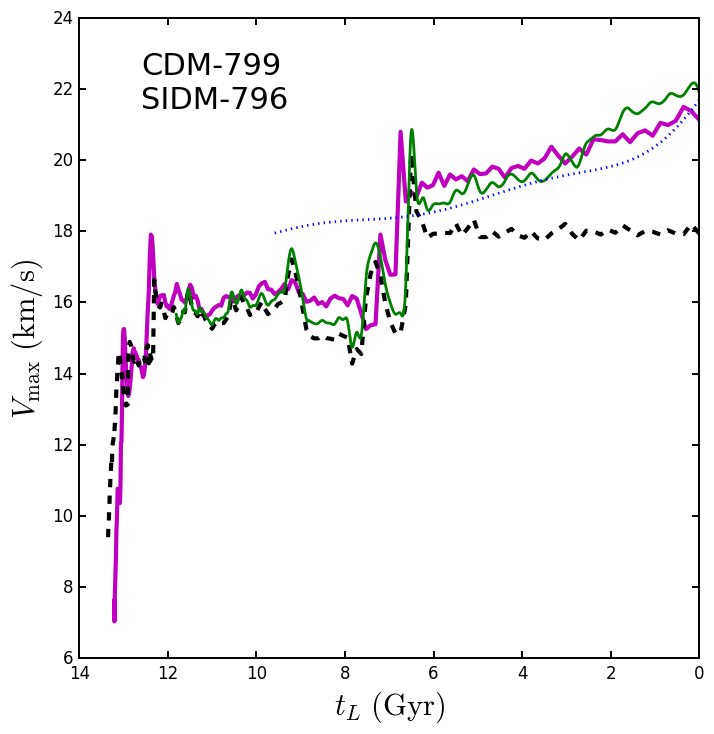
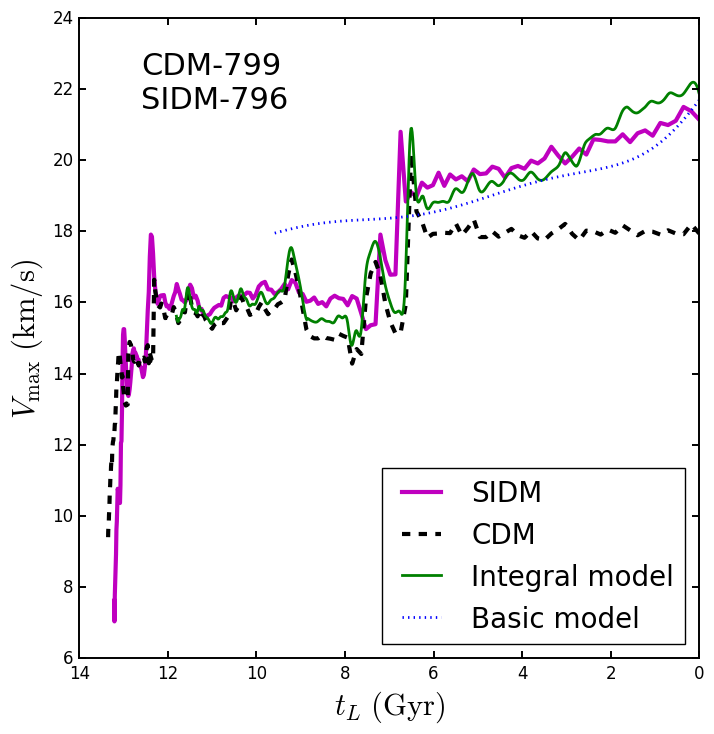
Update

diff --git a/getVRmaxplotISO.py b/getVRmaxplotISO.py
@@ -60,7 +60,7 @@ plt.ylabel(r"$V_{\rm max}\ \rm (km/s)$",fontsize=22)
 zf=-0.0064*pow(np.log10(data1['mvir'][0]/h),2)+0.0237*np.log10(data1['mvir'][0]/h)+1.8837
 tform=14-1.*tlb(zf)
 tform=0.5*tform
-tbins=np.linspace(0,14,10000)
+tbins=np.linspace(0,14,1000)
 te=14-tform-tbins
 te[te<0]=0
 plt.plot(tlb(1/data2['scale']-1), data2['vmax'], '-',linewidth=3,color='m')
@@ -163,6 +163,8 @@ tr2=tsigma/tc0
 if(tr2>1.): tr2=1.
 print(cdmid,sidmid,data1['vmax'][0],data1['rvmax'][0]/h,data1['rvir'][0]/h,data2['vmax'][0],data2['rvmax'][0]/h,vmaxt(tr2,rhoss,rss),rmaxt(tr2,rhoss,rss),vmax1,rmax1,tr2,trx,rhoss1,rss1,rc1,rt1,tr1)
 
+plt.legend(['SIDM','CDM','Integral model','Basic model'],loc='lower right',fontsize=20)
+
 ax = fig.gca()
 
 ax.text(0.1, 0.85, r"CDM-"+str(cdmid)+"\nSIDM-"+str(sidmid), transform=ax.transAxes, fontsize=22,
@@ -179,5 +181,4 @@ plt.gca().invert_xaxis()
 
 plt.show()
 fig.savefig('figs/fig_tL_vmax_case_cdm_'+str(cdmid)+'_'+str(sidmid)+'_C4_1000bins.png', bbox_inches='tight')
-#fig.savefig('figs/fig_tL_vmax_case_cdm_'+str(cdmid)+'_'+str(sidmid)+'_Read_10000bins.png', bbox_inches='tight')
 
